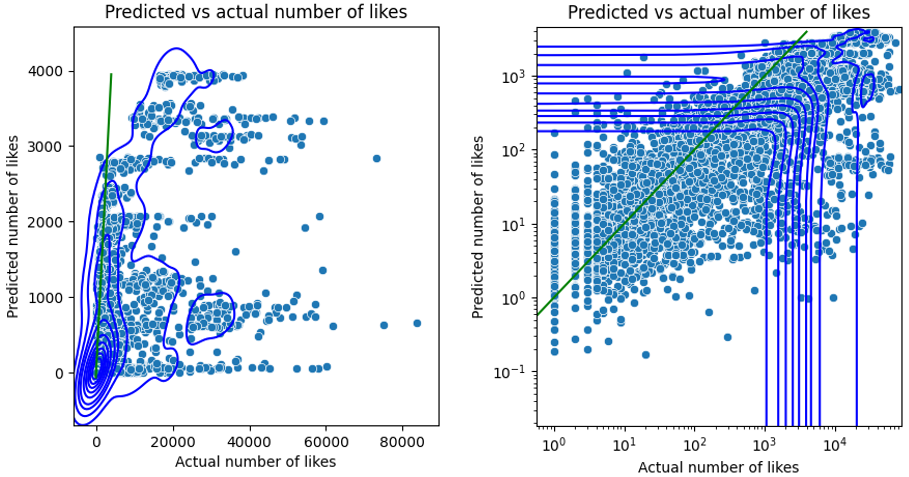
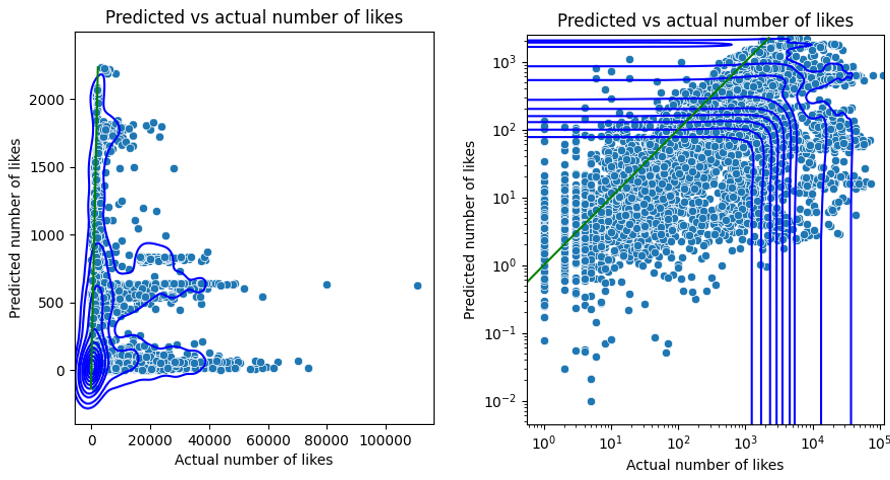
Add dashboard and more documentation

diff --git a/huggingface-interactive-ui/app.py b/huggingface-interactive-ui/app.py
@@ -23,7 +23,6 @@ from main_repo.utils.feature_processing import (extract_user_features,
                                                 get_subreddit_names,)
 from main_repo.utils.training import post_process_predictions
 
-
 def get_features(user_name: str, subreddit_name: str, post_title: str, post_text: str, post_date: datetime, post_time: datetime):
     now = datetime.datetime.utcnow()
     try:
@@ -96,7 +95,7 @@ def get_features(user_name: str, subreddit_name: str, post_title: str, post_text
 def load_model():
     project = hopsworks.login()
     mr = project.get_model_registry()
-    model_hsfs = mr.get_model("reddit_predict", version=10)
+    model_hsfs = mr.get_model("reddit_predict", version=16)
     model_dir = model_hsfs.download()
     model = joblib.load(model_dir + "/reddit_model.pkl")
     return model

diff --git a/utils/training.py b/utils/training.py
@@ -150,7 +150,12 @@ def get_weights(y_true):
     Returns the sample weights which correspond to the log of the values.
     """
     y_true = np.abs(y_true.copy().values[:,0])
-    return 1 / (y_true + 1)
+    return 1 / np.power(y_true + 1, 17/16) # reciprocal of the 17/16 root y^17/16
+    #return 1 / np.power(y_true + 1, 9/8) # reciprocal of the 9/8 root y^9/8
+    #return 1 / np.power(y_true + 1, 5/4) # reciprocal of the 5/4 root y^5/4
+    #return 1 / np.power(y_true + 1, 3/2) # reciprocal of the cube root y^3/2
+    #return 1 / (y_true + 1)**2 # reciprocal squared
+    # return 1 / (y_true + 1) # reciprocal
 
 
 def get_regressor(n_estimators, max_depth, eta, subsample, colsample_bytree, use_gpu=False):

diff --git a/training_pipeline.py b/training_pipeline.py
@@ -1,11 +1,12 @@
 RUN_ON_MODAL=True
 USE_GPU=True
 BAYESIAN_SEARCH=True
+BAYESIAN_ITERATIONS=7
 
 def g():
     from utils.training import train_model, upload_model_to_hopsworks, generate_prediction_plots, get_metrics, post_process_predictions
 
-    model, X_train, X_test, y_train, y_test = train_model(bayesian_search=BAYESIAN_SEARCH, bayesian_n_iterations=7, use_gpu=USE_GPU)
+    model, X_train, X_test, y_train, y_test = train_model(bayesian_search=BAYESIAN_SEARCH, bayesian_n_iterations=BAYESIAN_ITERATIONS, use_gpu=USE_GPU)
 
     # Note: the model automatically calls transform on all the preprocessing steps and then calls predict on the model
     y_pred = model.predict(X_test)

diff --git a/README.md b/README.md
@@ -14,6 +14,8 @@ A long list of subreddits are crawled on a daily basis, these include for exampl
 
 The script extracts data for three entity types that are stored in their individual table namely reddit_users, reddit_posts and reddit_subreddits. Some of the features represent e.g. the raw text and are only kept for plausibilisation reasons. See the enumeration and description of all features below.
 
+In case a lot of samples should be crawled in a short time, it is possible to schedule many instances of the feature pipeline that extract samples from different subreddits which leads to a very scalable system.
+
 ### reddit_posts
 
 - `post_id`: Uniquely identifies the post / submission on reddit.
@@ -66,12 +68,18 @@ The script extracts data for three entity types that are stored in their individ
 - `sentiment_negative_mean`: The mean of the negative sentiment of the most recent top posts in the subreddit.
 - `sentiment_negative_stddev`: The standard deviation of the negative sentiment of the most recent top posts in the subreddit.
 - `sentiment_negative_median`: The median of the negative sentiment of the most recent top posts in the subreddit.
+- `sentiment_negative_80th_percentile`: The 80th percentile of the negative sentiment of the most recent top posts in the subreddit.
+- `sentiment_negative_20th_percentile`: The 20th percentile of the negative sentiment of the most recent top posts in the subreddit.
 - `sentiment_neutral_mean`: The mean of the neutral sentiment of the most recent top posts in the subreddit.
 - `sentiment_neutral_stddev`: The standard deviation of the neutral sentiment of the most recent top posts in the subreddit.
 - `sentiment_neutral_median`: The median of the neutral sentiment of the most recent top posts in the subreddit.
+- `sentiment_neutral_80th_percentile`: The 80th percentile of the neutral sentiment of the most recent top posts in the subreddit.
+- `sentiment_neutral_20th_percentile`: The 20th percentile of the neutral sentiment of the most recent top posts in the subreddit.
 - `sentiment_positive_mean`: The mean of the positive sentiment of the most recent top posts in the subreddit.
 - `sentiment_positive_stddev`: The standard deviation of the positive sentiment of the most recent top posts in the subreddit.
 - `sentiment_positive_median`: The median of the positive sentiment of the most recent top posts in the subreddit.
+- `sentiment_positive_80th_percentile`: The 80th percentile of the positive sentiment of the most recent top posts in the subreddit.
+- `sentiment_positive_20th_percentile`: The 20th percentile of the positive sentiment of the most recent top posts in the subreddit.
 - `embedding_description`: The embedding of the description of the subreddit. Obtained with [sentence-transformers/paraphrase-MiniLM-L6-v2](https://huggingface.co/sentence-transformers/paraphrase-MiniLM-L6-v2).
 
 ## Training Pipeline
@@ -82,17 +90,17 @@ In addition to the XGBoost model, we post-process the predictions to reflect the
 
 ### Handling imbalances
 
-The massive imbalance between top posts low quality posts makes training difficult. XGBoost offers only a selected number of objective functions like mean squared error or mean squared log error. The former biases heavily towards posts with few likes so that there are no predictions beyond 200 likes (even though they can have up to 100,000 likes). The latter biases towards posts with many likes such that almost no posts have less than 50 likes (even though most have). A tradeoff like mean absolute error is not possible, as this metric is not twice differentiable.
+The massive imbalance between the number of likes on top posts and on low quality posts makes training very difficult. XGBoost offers only a selected number of objective functions like mean squared error or mean squared log error. The former biases heavily towards posts with few likes so that there are no predictions beyond 200 likes (even though they can have up to 100,000 likes). The latter biases towards posts with many likes such that almost no posts have less than 50 likes (even though most have). A tradeoff like mean absolute error is not possible, as this metric is not twice differentiable.
 
-For that reason, we introduce a weight for every sample x in the training set that is the reciprocal of the number of likes: $w(x) = 1/x_{likes}$. With this weighting, the model prioritizes to correctly predict whether a post will have a small, medium or large number of likes. It fails to correctly predict differences in large number of likes, e.g. distinguishing 10.000 from 25.000. However, the user would not care about how successful his post is as long as it is successful and thus this approach is superior to one where a post is often falsely predicted as successful.
+For that reason, we introduce a weight for every sample x in the training set that is the reciprocal of the number of likes to the power of 9/8: $w(x) = 1/\sqrt[8]{x^9_{likes}}$. After extensive experimentation we noticed that the sample weights $w(x) = 1/x_{likes}$ and $w(x) = 1/x_{likes^2}$ suffer from the same problems as the metrics described in the previous section, as they bias too heavily. On the other hand, the proposed sample weighting allows the model to predict up to 2000 number of likes while being very conservative in outputting high numbers. This is enough to distinguish top performing posts and bad posts which is the original question the user is interested in. In general, the prediction can be seen as a lower bound on the number of likes to be expected instead of the exact number of likes.
 
 It should be noted though, that common error metrics (e.g. R2) will exhibit large errors with this approach that may lead one to the false conclusion that the model was not powerful enough. Below you can see the comparison of predicted vs actual values for a model with and without the described weighting. The green line indicates a perfect prediction and the blue lines show the areas of highest point densities. The right plots differ only in terms of log scale for the x and y axis.
 
-**Predicted vs actual `without sample weighting` (unweighted R2=0.801)**
+**Predicted vs actual `without sample weighting` (R2=0.801)**
 
 <img src="media/predictions_without_sample_weighting.png" alt="model weight comparison" width="750"/>
 
-**Predicted vs actual with samples `weighted by inverse number of likes` (unweighted R2=-0.016)**
+**Predicted vs actual with samples `weighted by inverse number of likes` (R2=0.04)**
 
 <img src="media/predictions_with_inverse_likes_weighting.png" alt="model weight comparison" width="750"/>
 
@@ -149,13 +157,16 @@ modal token new
 
 As the system keeps running for longer time, it becomes necessary to check whether the distribution of the data changes over time. Also, the train / test / validation splits should take into account that the data is temporal and should be splitted that way. However, this is only possible when the system has gathered data over a period of time that is sufficiently long. The main reason is that top posts are much rarer than trash posts and thus to learn to predict higher number of likes, we incorporated top posts from all months of 2022 whereas most trash posts are from December 2022. This imbalance is a natural limitation of the api we used and because of it a temporal split does not make sense at this point. At a future point it would be possible to detect different kinds of drifts.
 
-## Internal notes for implementation
+## Screenshots
 
-Components that need to be created:
+Hopsworks regularly has connection issues which can render the services implemented in this repository unusable. If that is the case at the time you are trying it out, here are screenshots of the interactive UI and the dashboard:
 
-- feature pipeline deployed on modal
-- hyperparameter search for xgboost model
-- feature / models tests (MLOps)
-- feature extraction
-- feature selection
-- Check if SHAP values can be used for ML explainability. Although probably not if the sentence embedding is our main feature :(
+### Interactive UI
+
+<img src="media/interactive-ui.PNG" alt="Screenshot interactive UI" width="750"/>
+
+### Dashboard
+
+<img src="media/dashboard-1.PNG" alt="Screenshot dashboard - 1" width="750"/>
+
+<img src="media/dashboard-2.PNG" alt="Screenshot dashboard - 2" width="750"/>
